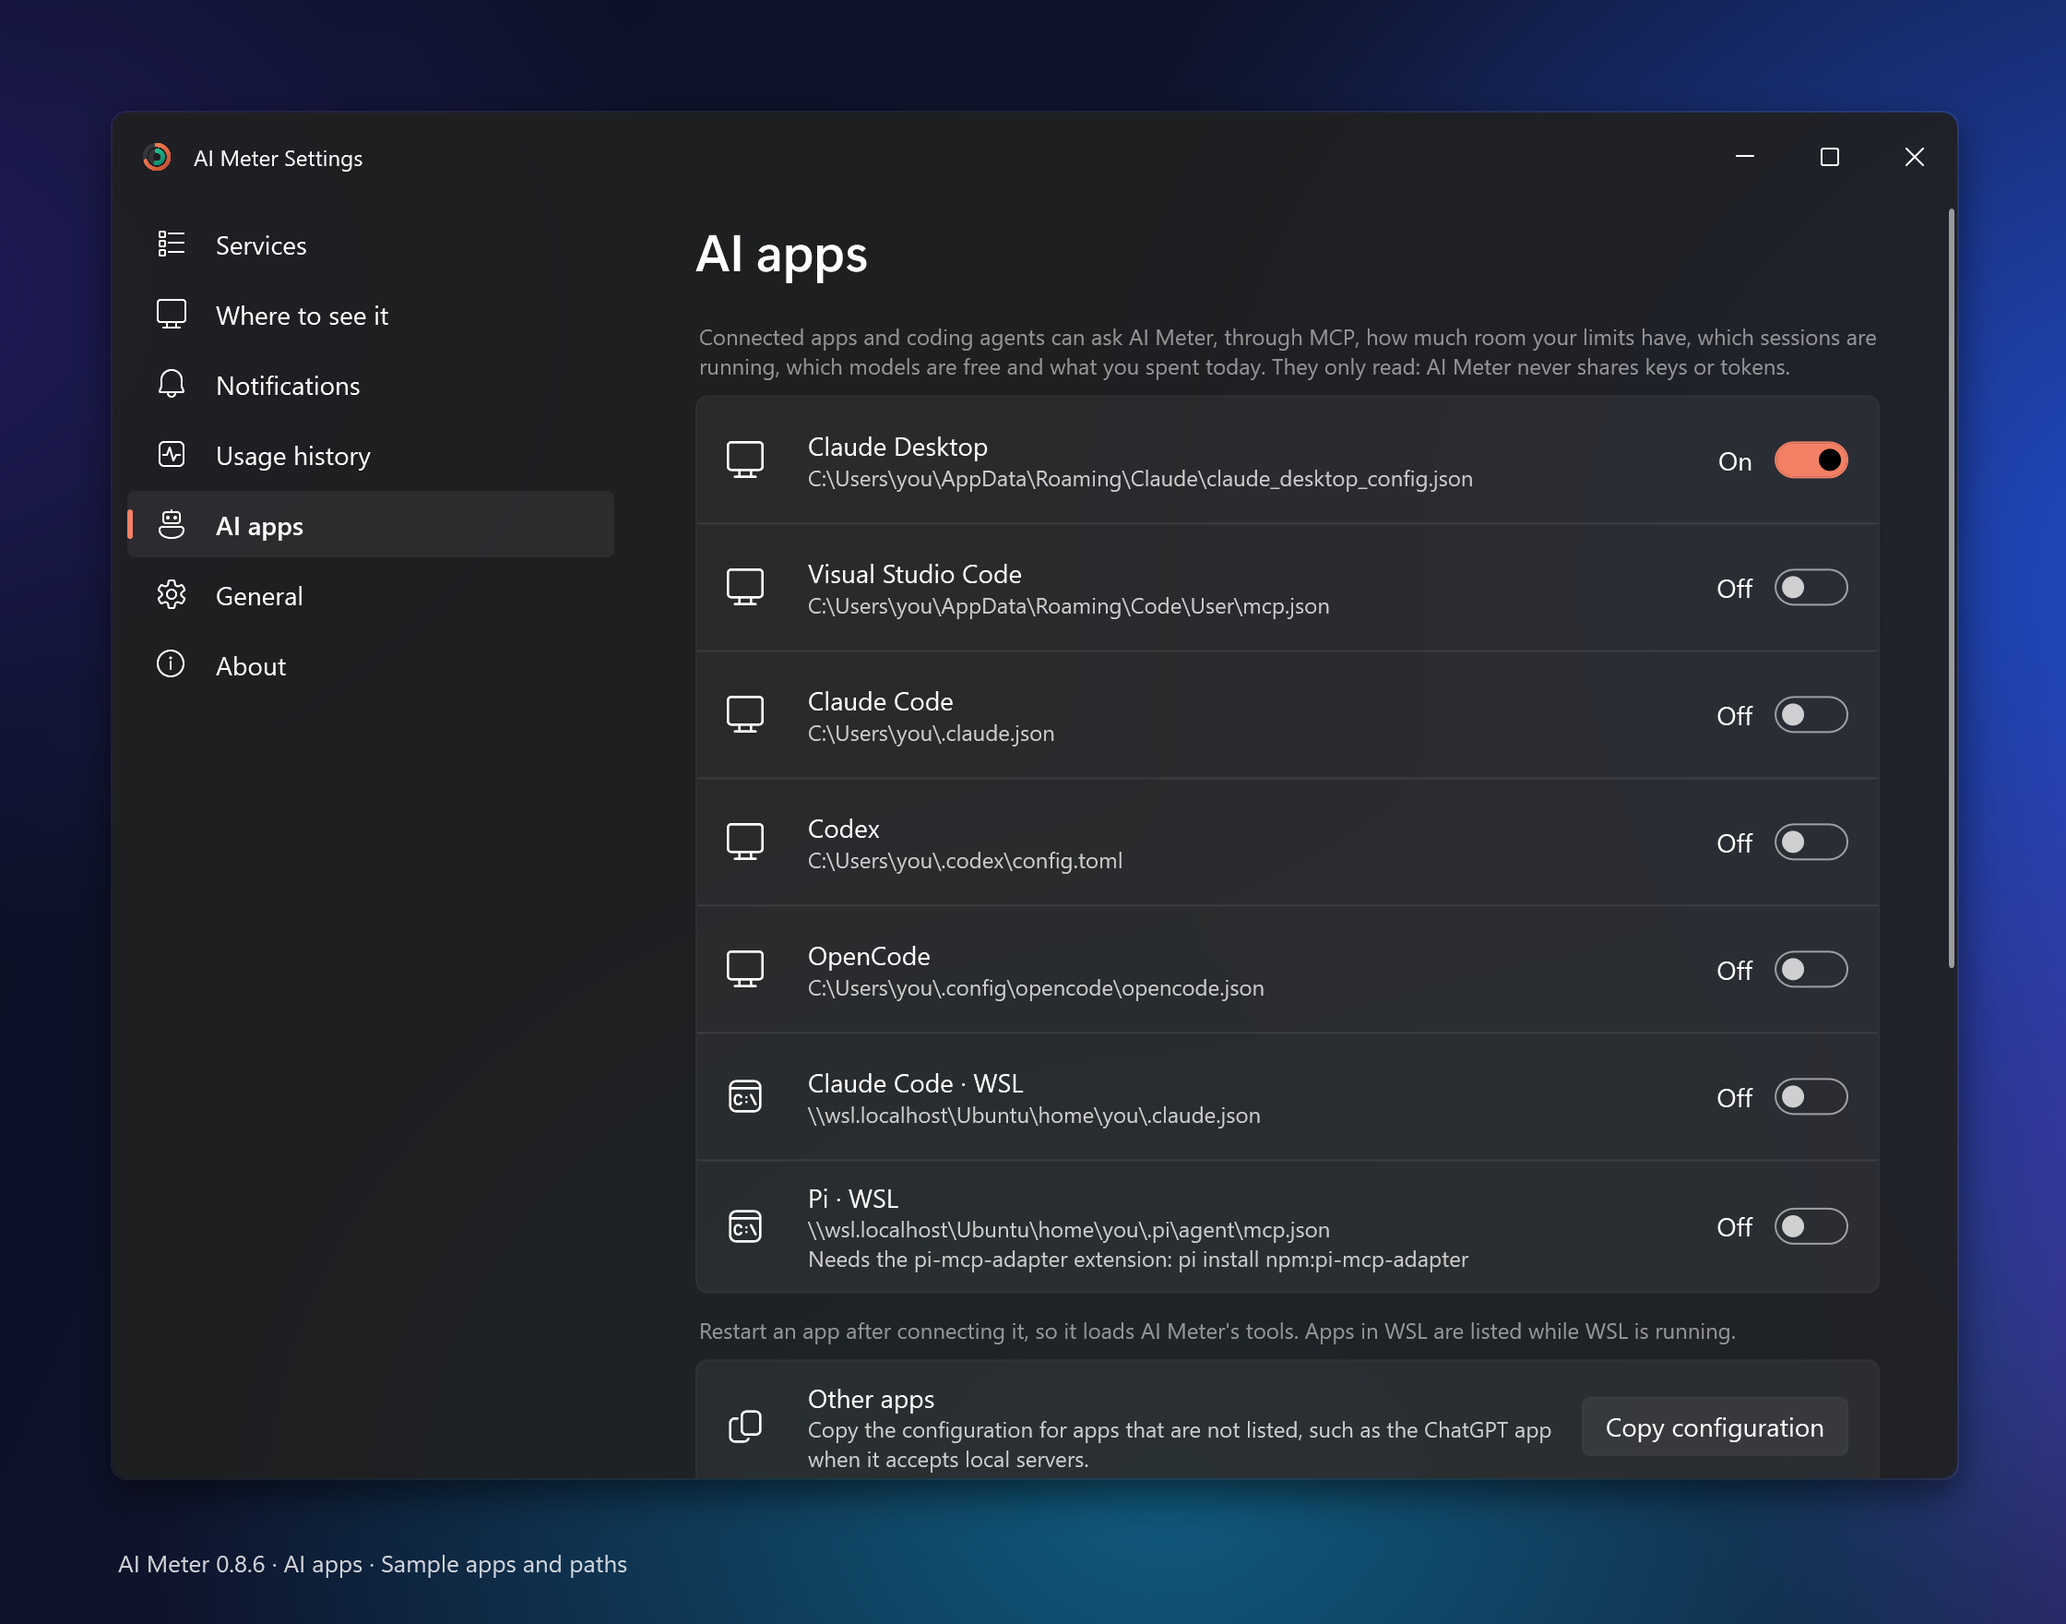
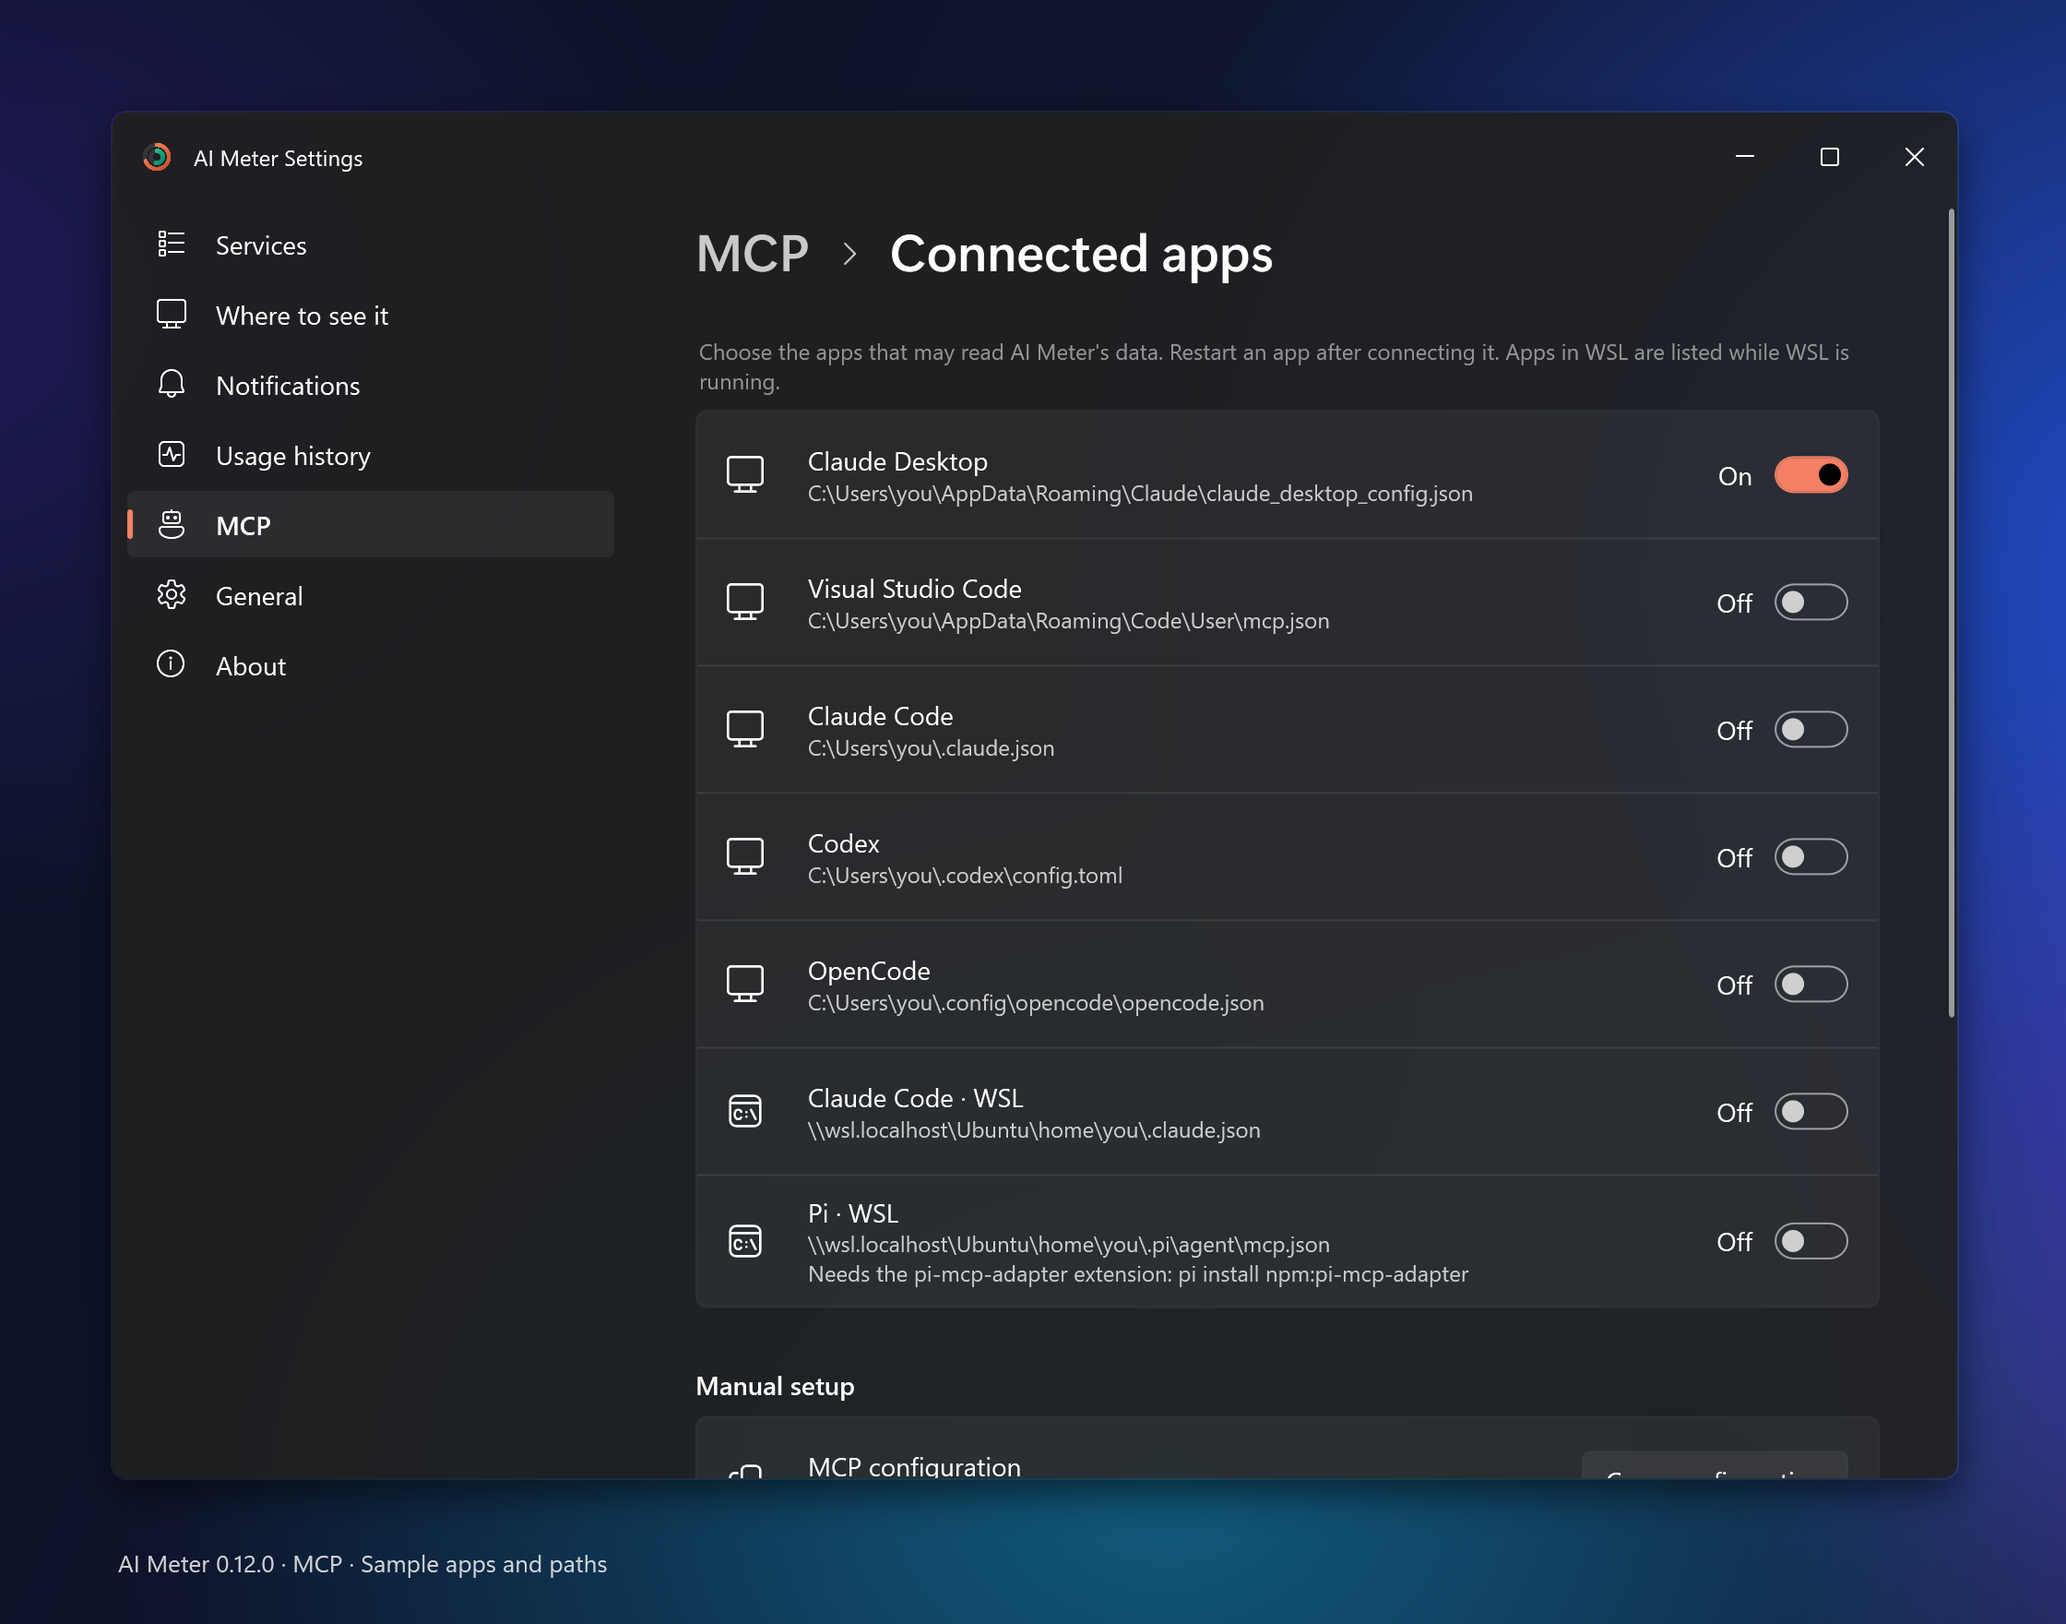
Release 0.12.0
Version 0.12.0, its release notes, the README media rendered again with the
MCP pages, and a dedicated image of the Delegation agent page
(tools/render-mcp.ps1), attached to the release.

diff --git a/tools/McpPreview.cs b/tools/McpPreview.cs
@@ -1,0 +1,61 @@
+using System;
+using System.Collections.Generic;
+using System.IO;
+using System.Reflection;
+using System.Windows;
+
+namespace AIMeter
+{
+    /// <summary>
+    /// Render Settings › MCP › Delegation agent with an isolated fixture, without showing windows or reading the PC
+    /// that renders it: a stand-in copy of Pi inside a sample WSL distribution, made-up keys, and a
+    /// sample scan of the user's agents. Nothing is downloaded and no key leaves the fixture's folder.
+    /// </summary>
+    public static class McpPreview
+    {
+        private const string Distro = "Ubuntu", SampleLocal = @"C:\Users\you\AppData\Local\AIMeter", SampleLinuxHome = "/home/you";
+
+        public static void Run(string output, string storage, string language)
+        {
+            Settings.TestFolder = storage;
+            Directory.CreateDirectory(storage); Directory.CreateDirectory(output);
+            MediaRenderer.Prepare(language);
+            var settings = (Settings)typeof(MediaRenderer).GetField("S", BindingFlags.NonPublic | BindingFlags.Static).GetValue(null);
+            settings.FindKeys = false;
+            settings.WslDistro = Distro;
+            Settings.Current = settings;
+            var controller = new Controller(false, null, null);
+            typeof(Controller).GetProperty("Settings").SetValue(controller, settings, null);
+
+            // The PC as the page reads it: a running distribution, Git for Windows, and two agents of the user's own.
+            var place = new WslPlace { Distro = Distro, Home = Path.Combine(storage, "wsl-home") };
+            Probe.WslPlacesUp = new[] { place };
+            ManagedPi.LocateGitBash = () => @"C:\Program Files\Git\bin\bash.exe";
+            var scan = new RuntimeScan();
+            scan.Found.Add(new RuntimePlace { Runtime = "claude", Where = "wsl", Distro = Distro });
+            scan.Found.Add(new RuntimePlace { Runtime = "codex", Where = "wsl", Distro = Distro });
+            typeof(Candidates).GetField("lastScan", BindingFlags.NonPublic | BindingFlags.Static).SetValue(null, scan);
+
+            // The copy inside WSL installed, the one on Windows on offer, and the keys of two services ticked.
+            var inWsl = ManagedPi.InWsl(place);
+            Directory.CreateDirectory(Path.GetDirectoryName(inWsl.ProgramPath));
+            File.WriteAllText(inWsl.ProgramPath, "stand-in");
+            foreach (string service in new[] { "openrouter", "nvidia" }) ApiKeys.Save(service, "made-up-key-0000000000000000");
+            settings.ManagedPiServices = new List<string> { "openrouter", "nvidia" };
+            ManagedPi.Sync(settings);
+
+            foreach (var dark in new[] { true, false })
+            {
+                MediaRenderer.SetTheme(dark);
+                var window = new SettingsWindow(controller);
+                window.Open("apps:agent");
+                var content = (FrameworkElement)window.Content;
+                window.Content = null;
+                // The fixture's Linux home is a Windows folder, shown as a path below "/": show a Linux home in its place.
+                MediaRenderer.ReplaceText(content, "/" + Path.GetFileName(storage) + "/wsl-home", SampleLinuxHome);
+                MediaRenderer.ReplaceText(content, storage, SampleLocal);
+                MediaRenderer.Save(MediaRenderer.McpShot(content, dark), Path.Combine(output, dark ? "delegation-dark.png" : "delegation-light.png"), 2);
+            }
+        }
+    }
+}

diff --git a/tools/MediaRenderer.cs b/tools/MediaRenderer.cs
@@ -265,6 +265,12 @@ namespace AIMeter
             return WindowShot(content, dark, 1160, 860, "Usage history · Sample data");
         }
 
+        /// <summary>Place the Delegation agent page (tools\McpPreview.cs) on the same synthetic desktop.</summary>
+        internal static FrameworkElement McpShot(FrameworkElement content, bool dark)
+        {
+            return WindowShot(content, dark, 1000, 900, "MCP · Delegation agent · Sample data");
+        }
+
         /// <summary>
         /// Frame a window's content with a Mica-like backdrop and caption buttons on the synthetic desktop,
         /// with a caption below it naming the screen and stating that the data is invented.
@@ -646,7 +652,7 @@ namespace AIMeter
         }
 
         /// <summary>Replace a fixture path in every text of the page with the sample path shown in its place.</summary>
-        private static void ReplaceText(DependencyObject node, string from, string to)
+        internal static void ReplaceText(DependencyObject node, string from, string to)
         {
             var text = node as TextBlock;
             if (text != null && text.Text.Contains(from)) text.Text = text.Text.Replace(from, to);

diff --git a/src/AssemblyInfo.cs b/src/AssemblyInfo.cs
@@ -8,7 +8,7 @@ using System.Runtime.InteropServices;
 [assembly: AssemblyDescription("Sessions and usage limits of AI services on Windows")]
 [assembly: AssemblyCompany("Giuseppe Gabriele Di Chiara")]
 [assembly: AssemblyCopyright("Copyright (c) 2026 Giuseppe Gabriele Di Chiara. Apache License 2.0.")]
-[assembly: AssemblyVersion("0.11.1.0")]
-[assembly: AssemblyFileVersion("0.11.1.0")]
-[assembly: AssemblyInformationalVersion("0.11.1")]
+[assembly: AssemblyVersion("0.12.0.0")]
+[assembly: AssemblyFileVersion("0.12.0.0")]
+[assembly: AssemblyInformationalVersion("0.12.0")]
 [assembly: ComVisible(false)]

diff --git a/RELEASE_NOTES.md b/RELEASE_NOTES.md
@@ -1,3 +1,41 @@
+## What changed in 0.12.0
+
+Delegation no longer needs a coding agent of your own: AI Meter can set one up for you, and Settings guide you through it.
+
+![Settings, MCP, Delegation agent: what AI Meter found on the PC, Pi installed inside WSL and on offer for Windows, and the keys it may use](https://raw.githubusercontent.com/dichiara19/ai-meter/v0.12.0/docs/media/delegation-dark.png)
+
+### Delegation without your own agent (preview)
+- **A coding agent managed by AI Meter.** Until now a delegated task needed Pi or OpenCode already installed, with its own key. In **Settings → MCP → Delegation agent** you can now have AI Meter download Pi, an open-source coding agent, and keep it for delegated tasks:
+  - **inside WSL**, where a distribution exists: tasks get a Linux shell, also when the coordinator runs on Windows;
+  - **on Windows**, for PCs without WSL: tasks that change files use Git Bash when Git for Windows is installed, otherwise PowerShell, and the page says so.
+- **Nothing happens unless you ask.** AI Meter downloads one fixed release of Pi (1.5.2) from its project on GitHub, only when you press *Download*, and checks its SHA-256 before unpacking it. It never updates it on its own, and *Remove* deletes the program, its settings and its keys.
+- **Your keys, by your choice.** The copy uses only the keys you switch on in that page, among those AI Meter already has. A key is copied to Pi's own key file in plain text, as in any Pi installation; switching it off or removing Pi deletes it. No MCP tool returns a key, and the plugin removes them from every report it gives the coordinator.
+- **Your own agent wins.** Where you have a Pi of your own that can run the task, it is used; the managed copy fills the gaps. It never runs on a subscription plan.
+- **The next step, in words.** When a task cannot start, the report now says what you can do: install a copy, switch a key on, or start WSL.
+- This part is in the GitHub version. The Microsoft Store version does not offer the download yet.
+
+### Cloudflare Workers AI
+- **Models that need the Workers Paid plan are no longer shown as free.** Cloudflare keeps some models for its paid plan and refuses them on a free account. AI Meter now asks Cloudflare's own model catalogue which they are, with each reading of the model list, so the list corrects itself when Cloudflare changes it. They leave the panel's free models and are never offered to a delegated task.
+- **Clearer refusals.** When Cloudflare refuses a token that can read your usage but may not run models, the report names the missing permission (*Workers AI*) and where to add it.
+- NVIDIA API Catalog and Cloudflare models can be delegated through the managed copy, with your consent for the free tier.
+
+### Settings
+- **AI apps is now MCP**, an overview with a page for each purpose instead of one long scroll: *Connected apps*, *Delegation agent*, *Model order* and *Subscription plans*. Each row of the overview shows its state at a glance.
+- The texts of these pages are rewritten, shorter and plainer, in all six languages.
+- Replacing a service's key keeps it selected for delegation: the switch comes back with the new key.
+
+### Plugin for Claude Code and Codex
+- Version 0.3.0. It asks AI Meter for a managed copy when you have no agent, picks the shell for each task, and keeps working with older versions of AI Meter without the new parts.
+
+### Privacy
+- Only if you press *Download*: a request to `github.com` for Pi's release archive. Nothing about you is sent.
+- While Cloudflare Workers AI is on: a request to `api.cloudflare.com` for its model catalogue, with your token and account ID, every 12 hours. A token without the *Workers AI: Read* permission is refused there, and AI Meter then uses the list it ships with.
+
+### Known limits
+- One WSL distribution, the one AI Meter is set to.
+- A task started from Windows in the copy inside WSL runs without your shell profile, so tools installed per user (such as a Node managed by `nvm`) are not found.
+- Like any coding agent run as you, the copy can read your files, its own key file included. Select only keys whose free-tier exposure you accept, and do not delegate tasks on content you do not trust.
+
 ## What changed in 0.11.1
 
 - **Antigravity is found on Windows.** Current versions of Antigravity CLI keep their sign-in in Windows Credential Manager instead of a file, so AI Meter said "Not found on this PC" although the CLI was signed in (#94). AI Meter now reads the sign-in from there. It only reads it and never changes it.

diff --git a/README.md b/README.md
@@ -85,10 +85,15 @@ Prefer a single executable? **AIMeter.zip** has `AIMeter.exe` (unsigned for now,
 | **Compact overlay** | A tiny always-on-top pill (off by default) with two micro buttons: collapse to a live ring icon, or close. Never steals focus, hides itself during full-screen games, videos and presentations, shows details on hover. |
 | **Settings** | Built like Windows 11 Settings: connected services, what to show, where, start with Windows, theme, refresh rate, live resource usage. |
 | **MCP** | Claude Desktop, Claude Code, Codex, Antigravity CLI, Hermes, OpenCode, Pi, Cursor and VS Code can read your limits, running sessions, free models and today's spending through AI Meter's MCP server, which changes nothing except its own `leases.json` when coding agents lease capacity. Connect each one with a switch in Settings → AI apps. [Details](docs/MCP.md). |
-| **Delegation (preview)** | A plugin for Claude Code and Codex hands self-contained tasks to a coding agent you already have (Pi or OpenCode) on a free model that AI Meter finds has room. Read-only by default; changes go to a new Git worktree. With no agent of your own, you can optionally let AI Meter download Pi for this, inside WSL (with a Linux shell) or on Windows, or both (Settings → AI apps → Delegated tasks, which also shows what AI Meter found on your PC; not yet in the Microsoft Store build). [Details](plugins/ai-meter/README.md), [managed Pi](docs/MCP.md#managed-pi). |
+| **Delegation (preview)** | A plugin for Claude Code and Codex hands self-contained tasks to a coding agent you already have (Pi or OpenCode) on a free model that AI Meter finds has room. Read-only by default; changes go to a new Git worktree. With no agent of your own, you can optionally let AI Meter download Pi for this, inside WSL (with a Linux shell) or on Windows, or both (Settings → MCP → Delegation agent, which also shows what AI Meter found on your PC; not yet in the Microsoft Store build). [Details](plugins/ai-meter/README.md), [managed Pi](docs/MCP.md#managed-pi). |
 | **Usage history** | Local quota cycles, spending, session tokens, models and tools, daily totals and consumption signals. Optional feedback records whether the result was worth the consumption. Open from the notification-area menu or Settings → Usage history. |
 
-<p align="center"><img src="docs/media/ai-apps.gif" alt="Settings, AI apps: switching on Claude Code and Codex, which then read AI Meter through MCP, and copying the command that adds AI Meter to Codex in WSL" width="720"></p>
+<p align="center"><img src="docs/media/ai-apps.gif" alt="Settings, MCP, Connected apps: switching on Claude Code and Codex, which then read AI Meter through MCP, and copying the command that adds AI Meter to Codex in WSL" width="720"></p>
+
+<details>
+<summary>See the delegation agent page</summary>
+<p align="center"><img src="docs/media/delegation-dark.png" alt="Settings, MCP, Delegation agent: what AI Meter found on the PC, Pi installed inside WSL and on offer for Windows, and the keys it may use" width="720"></p>
+</details>
 
 <details>
 <summary>See the connected apps page in the light theme</summary>
@@ -221,6 +226,7 @@ agents/*.json          built-in coding agent definitions: folders, keys and how 
 src/AgentDefinitions.cs loads agents/*.json and %APPDATA%\AIMeter\agents
 src/ManagedPi.cs       the optional copies of Pi (Windows, inside WSL) that Settings downloads for delegation: pinned release, SHA-256 check, their own key files
 tools/render-media.ps1 regenerates the README images (docs/media) from the real UI with demo data
+tools/render-mcp.ps1   renders the Delegation agent page (docs/media/delegation-*.png) from an isolated fixture (tools/McpPreview.cs)
 tools/render-store.ps1 renders the Microsoft Store screenshots in six languages (tools/StoreScreenshots.cs)
 src/Settings.cs        preferences and start with Windows
 src/PackageStartup.cs  start with Windows in the Microsoft Store package (StartupTask)
